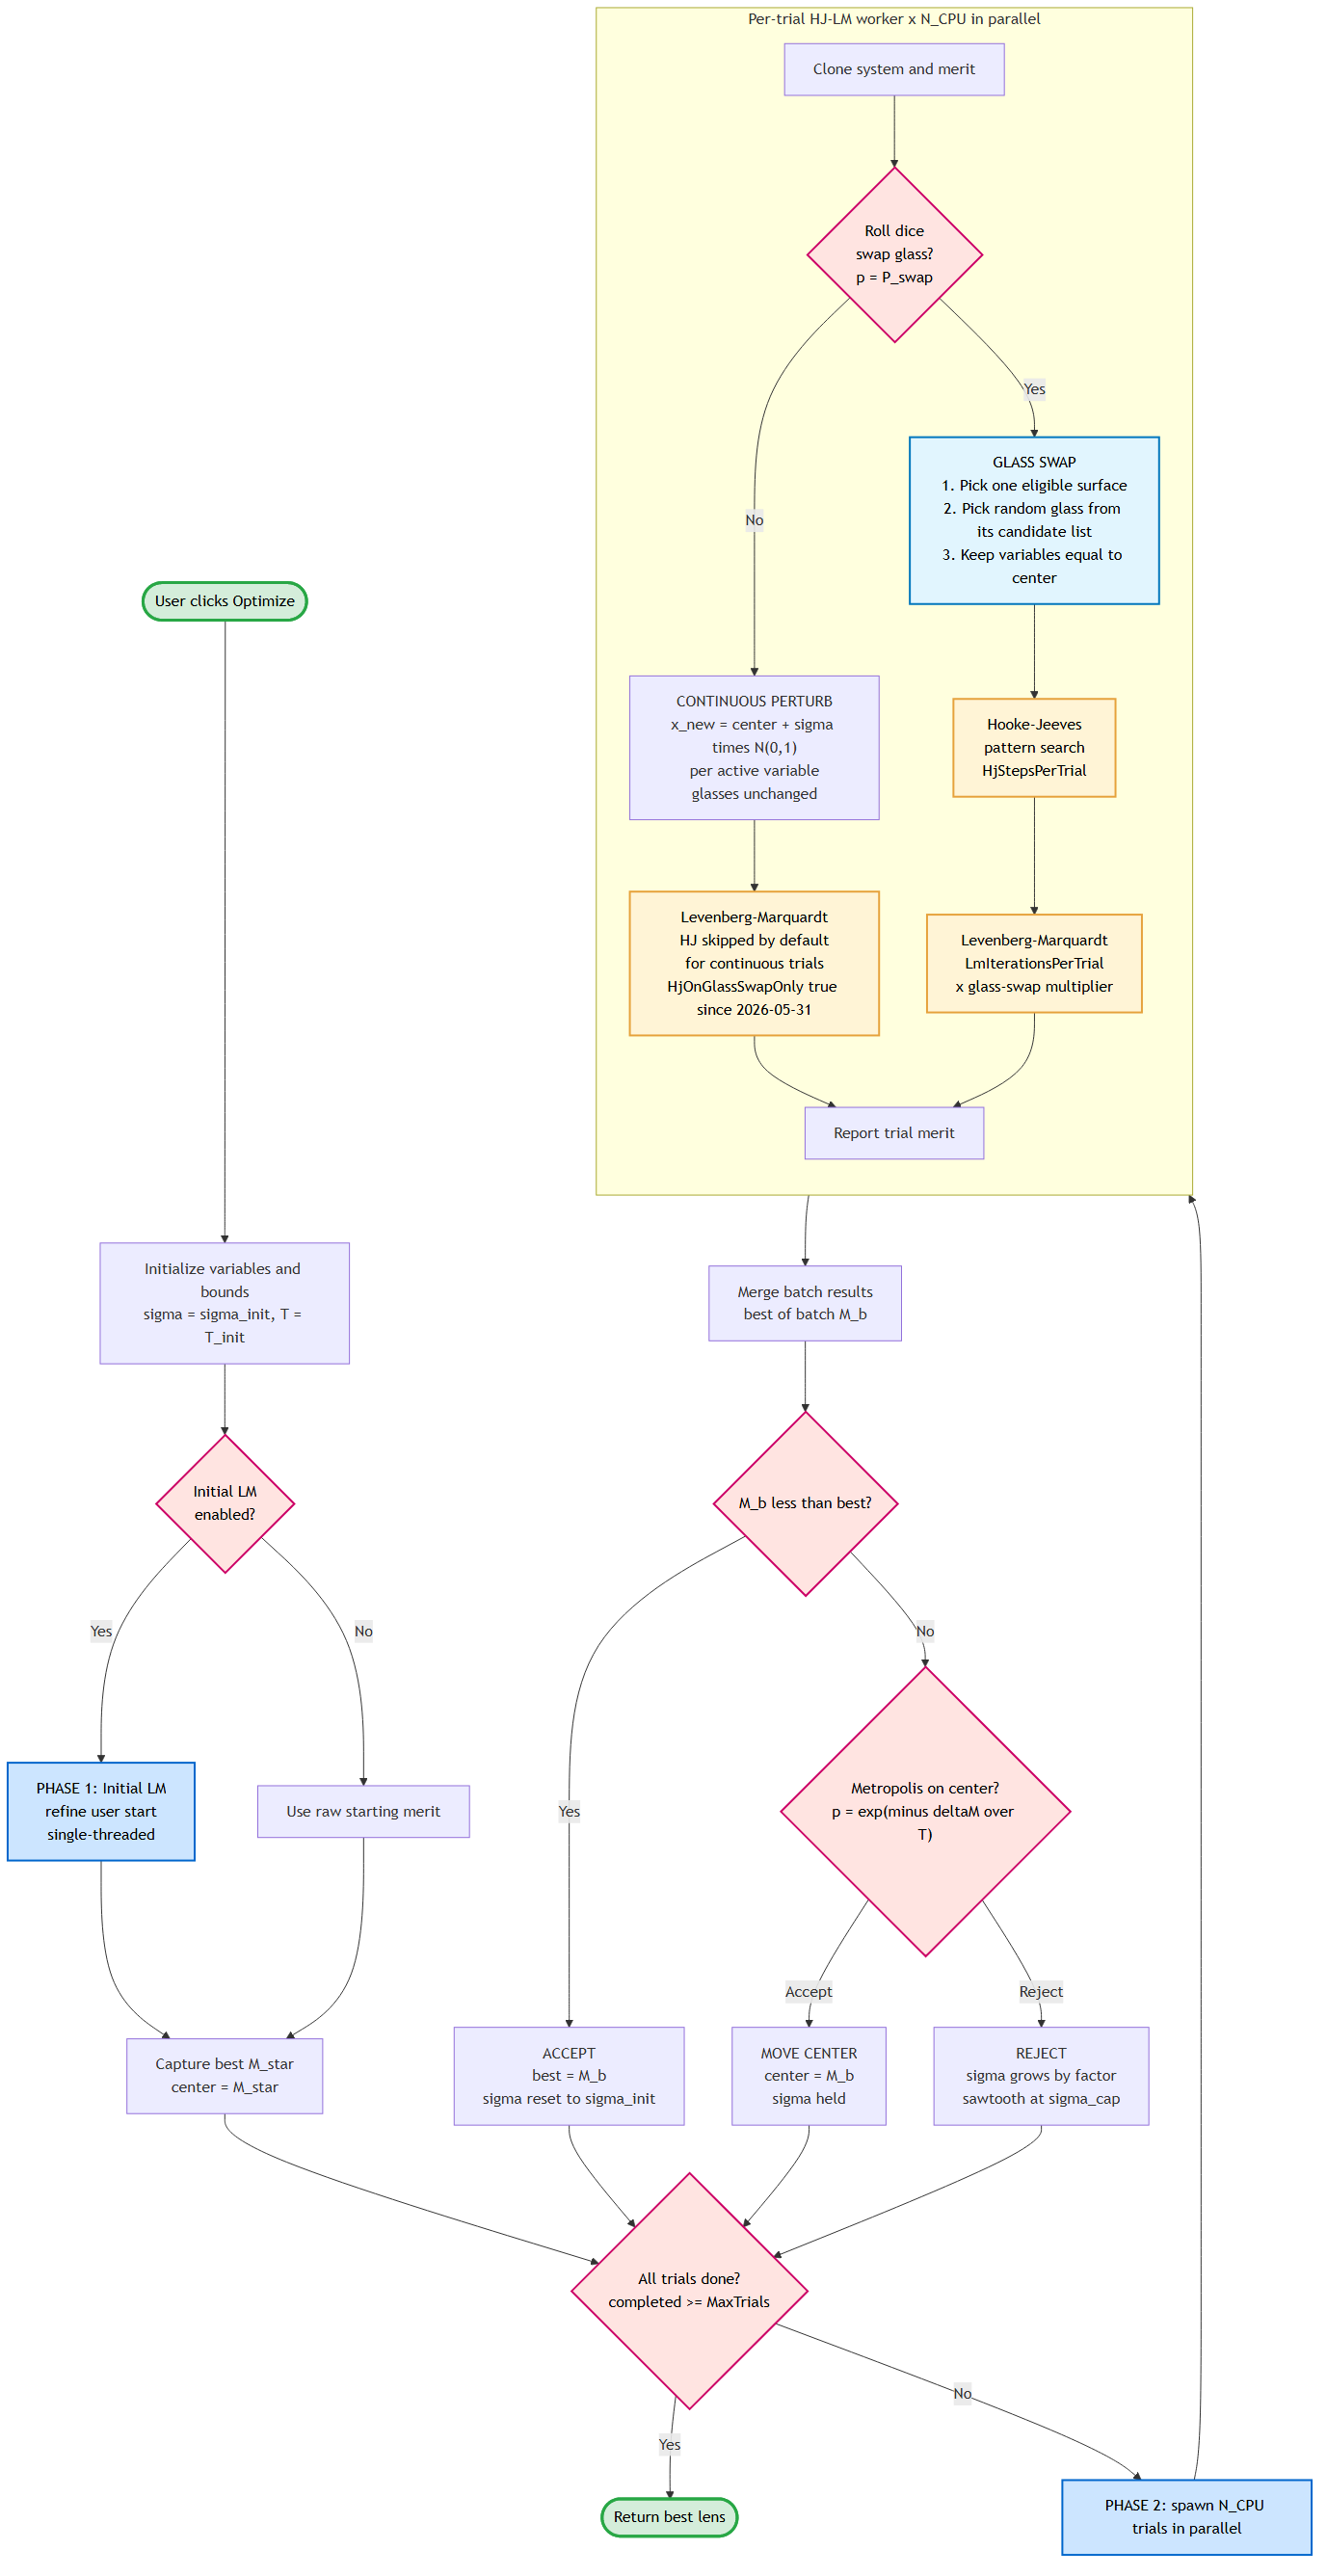
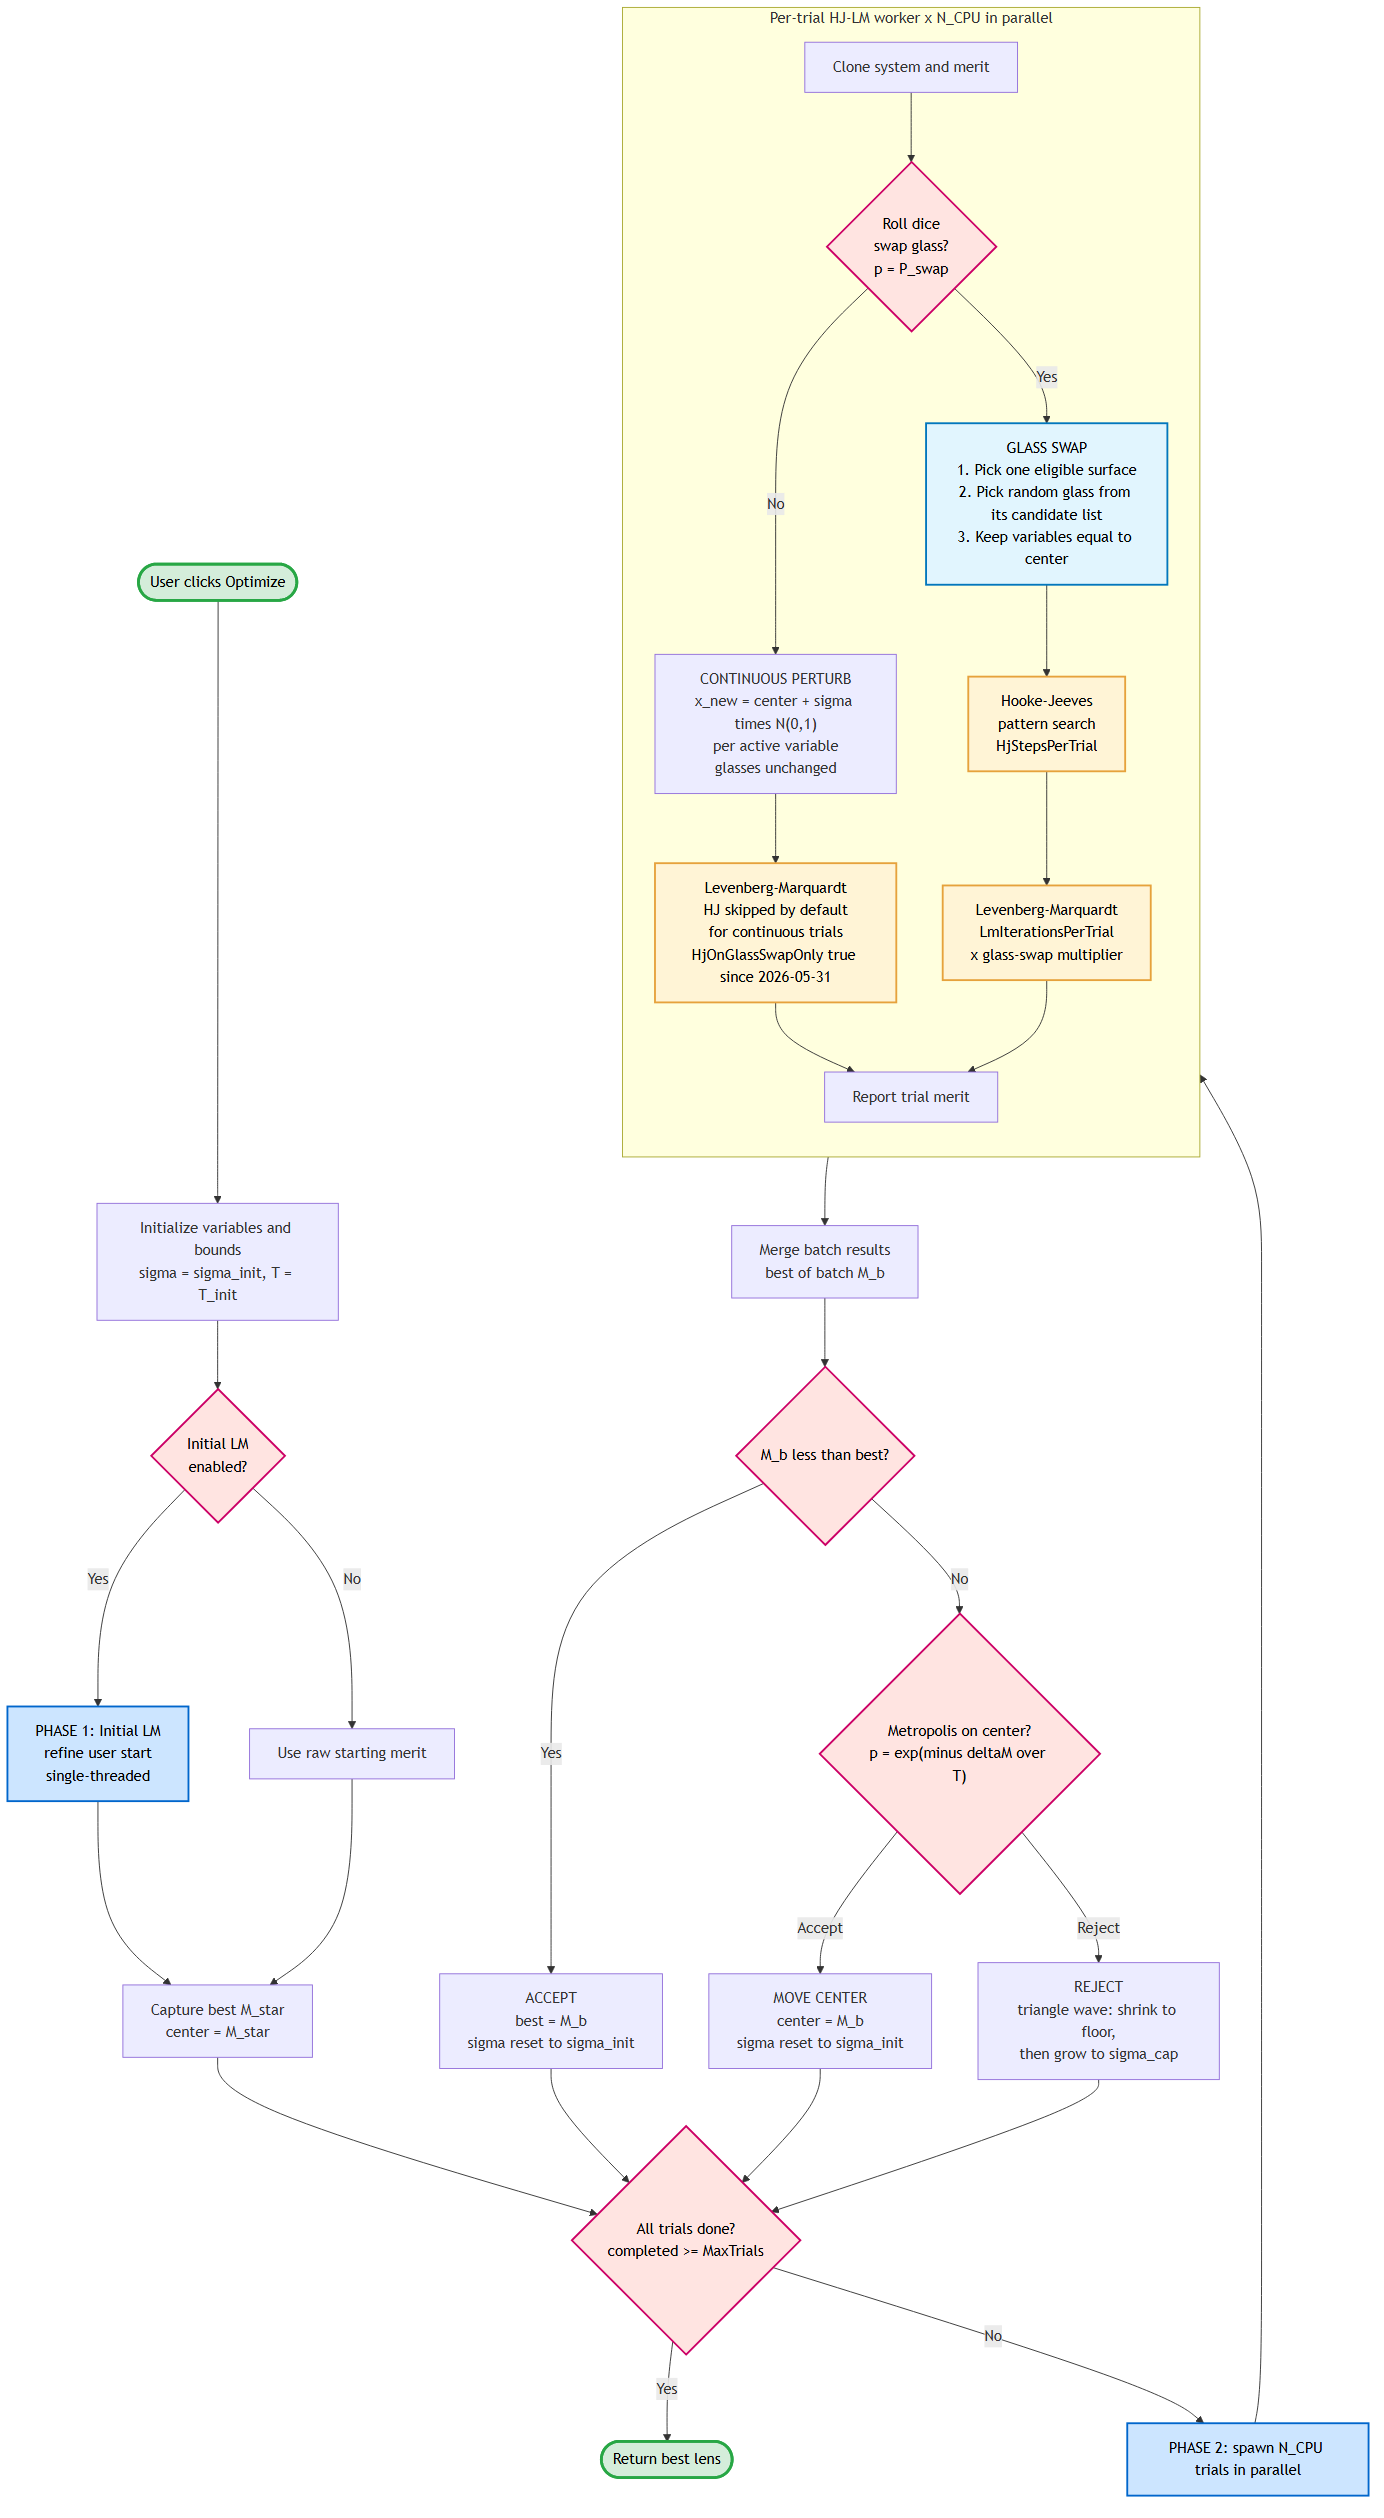
1.0.117: Multistart triangle-wave sigma, simplified GPU pre-screen UI, docs
- GUI: Multistart dialog drops the single-precision ("float") toggle and the
  separate GPU sigma-multiplier field; Init Sigma / Sigma Cap defaults are now
  0.0003 / 0.1 with triangle-wave tooltips. SplitElement + BasinHopping sigma
  tooltips refreshed.
- CLI / MCP: `optimize multistart`/`split` and `optimize_multistart` parameter
  defaults and help/descriptions updated to the triangle-wave schedule (MCP no
  longer pins the old 0.001/0.5 defaults; stale `rand=` CLI help fixed).
- docs: optimization.md rewritten for the triangle wave + corrected settings
  table; multistart flowchart (.mmd + regenerated PNG); CHANGELOG.
- Bundled binaries refreshed: obfuscated engine/LensHH.Core.dll and a fresh
  CPU-only engine/linux-x64/liblenshh_native.so. Installer pinned to 1.0.117.

macOS dylib and GPU slide artifacts intentionally left uncommitted.

diff --git a/src/LensHH.App/ViewModels/MultistartDialogViewModel.cs b/src/LensHH.App/ViewModels/MultistartDialogViewModel.cs
@@ -81,11 +81,11 @@ public partial class MultistartDialogViewModel : ObservableObject
     public bool InitialLmInputEnabled => !IsRunning && !SkipInitialLm;
 
     partial void OnIsRunningChanged(bool value) => OnPropertyChanged(nameof(InitialLmInputEnabled));
-    // 2026-06-06: default lowered 0.001 → 0.0001. 0.001 over-perturbed
-    // near-solution designs (search wandered rather than refined); the sawtooth
-    // still grows sigma on rejection to escape, so starting small is safe.
-    [ObservableProperty] private double _initialSigma = 0.0001;
-    [ObservableProperty] private double _sigmaCap = 0.5;
+    // Reset point of the triangle-wave perturbation: sigma returns here on every
+    // acceptance and starts here. Rejection shrinks sigma toward SigmaMin, then
+    // climbs toward SigmaCap to escape, oscillating until something is accepted.
+    [ObservableProperty] private double _initialSigma = 0.0003;
+    [ObservableProperty] private double _sigmaCap = 0.1;
     [ObservableProperty] private bool _enableMetropolis = true;
     // Default lowered from 50 → 10 on 2026-05-31. HJ pre-step now also
     // runs only on glass-swap trials (MultistartSettings.HjOnGlassSwapOnly
@@ -126,16 +126,6 @@ public partial class MultistartDialogViewModel : ObservableObject
     // integration arrives, this property already feeds MultistartSettings.
     // UseGpuPreScreen — no UI rewiring needed.
     [ObservableProperty] private bool _useGpuPreScreen;
-    // GPU pre-screen perturbation = this fraction of the CPU sigma. The
-    // pre-screen ranks by raw un-polished merit (only valid for small
-    // perturbations), so the GPU needs a tighter spread than the CPU. Lower =
-    // more aggressive. Default 0.25.
-    [ObservableProperty] private double _gpuPreScreenSigmaScale = 0.25;
-    // Run the GPU pre-screen in single precision. Validated ranking-equivalent,
-    // but default OFF: profiling showed the whole-merit kernel is local-memory/
-    // register bound (not FP64-bound), so float is currently ~10× slower. Kept
-    // wired for when the per-thread frame is shrunk. Route-C slice 5.
-    [ObservableProperty] private bool _gpuPreScreenUseFloat = false;
     [ObservableProperty] private string _gpuStatusText = "Detecting GPU...";
     [ObservableProperty] private bool _isGpuToggleEnabled;
 
@@ -322,8 +312,6 @@ public partial class MultistartDialogViewModel : ObservableObject
                     // MultistartOptimizer Phase-2 hook lands in 1.0.116, at
                     // which point this flag will start gating the GPU sieve.
                     UseGpuPreScreen = UseGpuPreScreen,
-                    GpuPreScreenSigmaScale = GpuPreScreenSigmaScale,
-                    GpuPreScreenUseFloat = GpuPreScreenUseFloat,
                 },
                 // Phase 10a — DEV engine selection from the dialog.
                 EngineMode = (EngineModeIndex == 1) ? EngineMode.Native : EngineMode.CSharp,

diff --git a/src/LensHH.CLI/Commands/OptimizeCommand.cs b/src/LensHH.CLI/Commands/OptimizeCommand.cs
@@ -17,9 +17,9 @@ namespace LensHH.CLI.Commands
         public string Help => @"[bold]optimize[/] - Optimization operations
   [green]optimize run [[maxiter=N]] [[tol=V]] [[damping=V]] [[broyden=true|false]] [[refresh=N]][/]  Run local optimization (auto-applies result to the system)
   [green]optimize try [[maxiter=N]] [[tol=V]] [[damping=V]] [[broyden=true|false]] [[refresh=N]][/]  Run local optimization and prompt to keep or revert
-  [green]optimize multistart [[trials=N]] [[lm=N]] [[initlm=N]] [[rand=V]] [[glass=V]] [[constrained]] [[tol=V]] [[damping=V]] [[broyden=true|false]] [[refresh=N]][/]  Multistart optimization
+  [green]optimize multistart [[trials=N]] [[lm=N]] [[initlm=N]] [[sigma=V]] [[cap=V]] [[growth=V]] [[glass=V]] [[constrained]] [[tol=V]] [[damping=V]] [[broyden=true|false]] [[refresh=N]][/]  Multistart optimization
   [green]optimize basin [[hops=N]] [[lm=N]] [[hj=N]] [[sigma=V]] [[hjstep=V]] [[hjmin=V]] [[tol=V]] [[damping=V]] [[broyden=true|false]] [[constrained]] [[glasssub=true|false]] [[onlypreferred=true|false]] [[catalog=NAME]] [[seed=N]][/]  Basin hopping (Hooke-Jeeves + LM with random kicks between hops)
-  [green]optimize split [[splits=N]] [[trials=N]] [[lm=N]] [[postlm=N]] [[preglass=N]] [[postglass=N]] [[rand=V]] [[constrained]] [[onlypreferred=true|false]] [[minglass=V]] [[maxglass=V]] [[minair=V]] [[maxair=V]] [[minedge=V]] [[skipsec=V]] [[tol=V]] [[damping=V]] [[broyden=true|false]] [[refresh=N]] [[catalog=NAME]] [[noglass]][/]  Split element synthesis. catalog: AGF name (e.g. catalog=S1_GLASS); resolved against catalogs\FilteredGlassCatalogues. noglass: skip the glass-trials phase entirely (split + LM polish only).
+  [green]optimize split [[splits=N]] [[trials=N]] [[lm=N]] [[postlm=N]] [[preglass=N]] [[postglass=N]] [[sigma=V]] [[constrained]] [[onlypreferred=true|false]] [[minglass=V]] [[maxglass=V]] [[minair=V]] [[maxair=V]] [[minedge=V]] [[skipsec=V]] [[tol=V]] [[damping=V]] [[broyden=true|false]] [[refresh=N]] [[catalog=NAME]] [[noglass]][/]  Split element synthesis. catalog: AGF name (e.g. catalog=S1_GLASS); resolved against catalogs\FilteredGlassCatalogues. noglass: skip the glass-trials phase entirely (split + LM polish only).
   [green]optimize spc [[elements=N]] [[topn=N]] [[scanmin=V]] [[scanmax=V]] [[steps=N]] [[epsilon=V]] [[glass=N]] [[lm=N]] [[postlm=N]] [[catalog=NAME]] [[archive=true|false]] [[archivedir=PATH]] [[dop=N]] [[nullglass=NAME]] [[runinitlm=true|false]] [[initlm=N]] [[onlypreferred=true|false]] [[minglass=V]] [[maxglass=V]] [[minair=V]] [[maxair=V]] [[minedge=V]] [[constraintweight=V]][/]  Synthesis by SPC. catalog is mandatory (single AGF name or comma-separated list).
   [green]optimize cancel[/]                                     Cancel running optimization
   [green]optimize variables[/]                                  List current variables";
@@ -206,7 +206,7 @@ namespace LensHH.CLI.Commands
 
             var settings = new MultistartSettings();
 
-            // Parse args: trials=N, lm=N, initlm=N, rand=V, glass=V, constrained
+            // Parse args: trials=N, lm=N, initlm=N, sigma=V, cap=V, growth=V, glass=V, constrained
             for (int i = 1; i < args.Length; i++)
             {
                 var parts = args[i].Split('=');
@@ -267,7 +267,7 @@ namespace LensHH.CLI.Commands
 
             AnsiConsole.MarkupLine($"[bold]Starting multistart optimization[/]");
             AnsiConsole.MarkupLine($"  Trials: {settings.MaxTrials}, LM/trial: {settings.LmIterationsPerTrial}");
-            AnsiConsole.MarkupLine($"  Sigma: {settings.InitialSigma:G3} → cap {settings.SigmaCap:G3} (×{settings.SigmaGrowth:G3}), Metropolis: {(settings.EnableMetropolis ? "on" : "off")}");
+            AnsiConsole.MarkupLine($"  Sigma: start {settings.InitialSigma:G3}, triangle floor {settings.SigmaMin:G3} ↔ cap {settings.SigmaCap:G3} (×{settings.SigmaGrowth:G3}), Metropolis: {(settings.EnableMetropolis ? "on" : "off")}");
             AnsiConsole.MarkupLine($"  HJ steps/trial: {settings.HjStepsPerTrial}, Glass-swap LM ×{settings.GlassSwapLmMultiplier}, Glass sub: {settings.GlassSubstitutionProbability * 100:F0}%");
             AnsiConsole.MarkupLine("");
 

diff --git a/src/LensHH.Mcp/Tools/OptimizationTools.cs b/src/LensHH.Mcp/Tools/OptimizationTools.cs
@@ -407,9 +407,9 @@ namespace LensHH.Mcp.Tools
             return "All variables cleared.";
         }
 
-        [McpServerTool, Description("Run adaptive multistart optimization. Each trial perturbs from the running center, runs Hooke-Jeeves pre-step (robust to merit-function discontinuities), then short LM. Sigma sawtooth: starts at initialSigma, grows on rejection, snaps back to initialSigma when it crosses sigmaCap. Metropolis acceptance keeps a 'currentCenter' that may accept worse-than-best moves with probability exp(-dM/T) so the optimizer can walk out of local basins. Glass-swap trials get LmPerTrial × glassSwapLmMultiplier iterations to recover from the index discontinuity. Parameters: maxTrials (default 2000), lmPerTrial (default 50), initialLm (default 200), initialSigma (default 0.001), sigmaGrowth (default 1.5), sigmaCap (default 0.5), enableMetropolis (default true), metropolisTemperature (default 0 = autotune from first 10 |dM| samples), hjStepsPerTrial (default 50, 0=disable), hjInitialStep (default 0.1), glassSwapLmMultiplier (default 4), glassSubPercent (default 50), constrainedOnly (default false). Per-LocalOptimizer tunables: tolerance (default 1e-10), dampingFactor (default 1e-6), useBroyden (default true), broydenRefreshInterval (default 5). Result is auto-applied to the system.")]
+        [McpServerTool, Description("Run adaptive multistart optimization. Each trial perturbs from the running center, runs Hooke-Jeeves pre-step (robust to merit-function discontinuities), then short LM. Sigma triangle wave: starts at initialSigma and resets there on any accepted move; on rejection it first SHRINKS (÷sigmaGrowth, finer local steps) down to an internal floor, then GROWS (×sigmaGrowth) up to sigmaCap to escape a stuck basin, bouncing between floor and cap. Metropolis acceptance keeps a 'currentCenter' that may accept worse-than-best moves with probability exp(-dM/T) so the optimizer can walk out of local basins. Glass-swap trials get LmPerTrial × glassSwapLmMultiplier iterations to recover from the index discontinuity. Parameters: maxTrials (default 2000), lmPerTrial (default 50), initialLm (default 200), initialSigma (default 0.0003), sigmaGrowth (default 1.5), sigmaCap (default 0.1), enableMetropolis (default true), metropolisTemperature (default 0 = autotune from first 10 |dM| samples), hjStepsPerTrial (default 50, 0=disable), hjInitialStep (default 0.1), glassSwapLmMultiplier (default 4), glassSubPercent (default 50), constrainedOnly (default false). Per-LocalOptimizer tunables: tolerance (default 1e-10), dampingFactor (default 1e-6), useBroyden (default true), broydenRefreshInterval (default 5). Result is auto-applied to the system.")]
         public string MultistartOptimize(int maxTrials = 2000, int lmPerTrial = 50, int initialLm = 200,
-            double initialSigma = 0.001, double sigmaGrowth = 1.5, double sigmaCap = 0.5,
+            double initialSigma = 0.0003, double sigmaGrowth = 1.5, double sigmaCap = 0.1,
             bool enableMetropolis = true, double metropolisTemperature = 0.0,
             int hjStepsPerTrial = 50, double hjInitialStep = 0.1, int glassSwapLmMultiplier = 4,
             double glassSubPercent = 50, bool constrainedOnly = false,
@@ -730,9 +730,9 @@ namespace LensHH.Mcp.Tools
             "After calling this, poll optimize_status(jobId) every ~10-30 seconds to track progress (current trial, best merit, elapsed time) and report to the user. " +
             "Call optimize_cancel(jobId) to stop early. " +
             "When the job's status is Completed, the system already holds the optimized values (auto-applied) — there is no separate keep step. " +
-            "Parameters mirror optimize_multistart: maxTrials (2000), lmPerTrial (50), initialLm (200), initialSigma (0.001), sigmaGrowth (1.5), sigmaCap (0.5), enableMetropolis (true), metropolisTemperature (0 = autotune), hjStepsPerTrial (50), hjInitialStep (0.1), glassSwapLmMultiplier (4), glassSubPercent (50), constrainedOnly (false), tolerance (1e-10), dampingFactor (1e-6), useBroyden (true), broydenRefreshInterval (5).")]
+            "Parameters mirror optimize_multistart: maxTrials (2000), lmPerTrial (50), initialLm (200), initialSigma (0.0003), sigmaGrowth (1.5), sigmaCap (0.1), enableMetropolis (true), metropolisTemperature (0 = autotune), hjStepsPerTrial (50), hjInitialStep (0.1), glassSwapLmMultiplier (4), glassSubPercent (50), constrainedOnly (false), tolerance (1e-10), dampingFactor (1e-6), useBroyden (true), broydenRefreshInterval (5).")]
         public string MultistartOptimizeStart(int maxTrials = 2000, int lmPerTrial = 50, int initialLm = 200,
-            double initialSigma = 0.001, double sigmaGrowth = 1.5, double sigmaCap = 0.5,
+            double initialSigma = 0.0003, double sigmaGrowth = 1.5, double sigmaCap = 0.1,
             bool enableMetropolis = true, double metropolisTemperature = 0.0,
             int hjStepsPerTrial = 50, double hjInitialStep = 0.1, int glassSwapLmMultiplier = 4,
             double glassSubPercent = 50, bool constrainedOnly = false,

diff --git a/docs/optimization.md b/docs/optimization.md
@@ -179,9 +179,10 @@ keeps the best, and tracks accepted vs rejected counts. Glass
 substitution can be enabled — every trial may swap glasses on
 substitution-eligible surfaces with a chosen probability. The
 per-trial perturbation magnitude (`Sigma`) adapts during the run
-the same way Basin Hopping does (grow on rejects, reset on
-accepts, reset at cap), so a single starting Sigma covers a wide
-range of designs.
+on a *triangle-wave* schedule — it shrinks for finer steps after a
+rejection and only grows toward the cap to escape once it bottoms
+out, resetting to its initial value on every acceptance — so a
+single starting Sigma covers a wide range of designs.
 
 ### Algorithm at a glance
 
@@ -192,9 +193,10 @@ batch spawns `N_CPU` parallel trials, every trial perturbs around
 the **current center** (a Metropolis random walk that is allowed
 to drift away from *best*), runs HJ-LM polish, then competes for
 acceptance. Successful trials reset σ to its initial value;
-rejected ones grow σ until it hits the cap and resets — a
-sawtooth schedule that paces exploration without freezing the
-search at a single scale.
+rejected ones first *shrink* σ for finer local refinement and,
+once σ bottoms out at its floor, grow it toward the cap to escape
+— a triangle-wave schedule that paces exploration without freezing
+the search at a single scale.
 
 ![Multistart architecture](images/optimization/multistart_architecture.png)
 
@@ -216,8 +218,8 @@ pre-1.0.115 always-HJ behaviour.
 | **Trials** | 2000 | Hard cap on the number of LM optimizations. Stop earlier when satisfied. |
 | **LM/Trial** | 4000 | Hard cap on LM iterations *inside* each trial. Per-trial wall-clock × Trials = total runtime budget. |
 | **Init LM** | 4000 | One LM polish from the *current* design before the first random perturbation. Set to 0 to skip. |
-| **Init Sigma** | 0.001 | Starting value of the Gaussian-perturbation scale (relative to each variable's natural scale). Sigma adapts during the run; 0.001 is sufficient even for very poor starts. |
-| **Sigma Cap** | 0.5 | Upper bound on the adapted sigma. When sigma's reject-driven growth would exceed this, sigma resets to **Init Sigma** instead of being parked at the cap — the same sawtooth pattern Basin Hopping uses. |
+| **Init Sigma** | 0.0003 | Starting value of the Gaussian-perturbation scale (relative to each variable's natural scale), and the value σ resets to on every accepted improvement. Sigma adapts during the run; 0.0003 is sufficient even for very poor starts. |
+| **Sigma Cap** | 0.1 | Upper bound of the triangle wave — the largest kick the escape phase reaches. After repeated rejections shrink σ to its floor, σ grows back up to this cap, then reverses and falls again; any acceptance resets σ to **Init Sigma**. (Basin Hopping uses a different, simpler grow-on-reject schedule.) |
 | **HJ Steps** | 50 | Hooke-Jeeves probe steps per trial (derivative-free) before LM takes over. HJ is good at climbing out of merit-function discontinuities (vignetting, ray-trace failures, glass-boundary jumps) where LM gets trapped. Set 0 to disable. |
 | **Init Damp** | 1e-3 | LM initial damping for every trial's per-trial LM run. Same meaning and default as the Local Optimizer's Init Damp. |
 | **Glass Sub %** | 50 | Probability that a trial picks a fresh random glass for each substitution-eligible surface. 0 = never; 100 = every trial. The pool comes from the per-surface Glass Substitution Settings (each surface can draw from a different filtered catalog) — see [Glass Substitution During Optimization](glass-catalogs.md#glass-substitution-during-optimization). |
@@ -227,7 +229,7 @@ pre-1.0.115 always-HJ behaviour.
 
 Multistart's strength is variability — it's the cheapest way to
 sample several glass sets and several nearby basins with only modest
-perturbations. With **Init Sigma = 0.001** it isn't designed to
+perturbations. With **Init Sigma = 0.0003** it isn't designed to
 flip a topology (a positive-power element won't become a
 negative-power element); for that, raise Sigma toward the cap, or
 use Basin Hopping.
@@ -364,7 +366,13 @@ Same starting state as Case 2 but with substitution enabled on
 S1 / S3 / S5 from CoreSet28. The story splits cleanly on
 **Init Sigma**.
 
-**At default Init Sigma = 0.001**: the design did not budge. Every
+(This study was run under the previous defaults, when **Init Sigma**
+defaulted to `0.001` and the schedule grew σ on every rejection; the
+current defaults are `0.0003` with the triangle-wave schedule. The
+qualitative lesson below — small kicks refine, larger kicks escape —
+is unchanged.)
+
+**At Init Sigma = 0.001**: the design did not budge. Every
 glass-swap trial that LM tried produced a worse-than-best post-LM
 merit and got rejected; without an LM-driven perturbation big
 enough to compensate for the index change, the design stayed
@@ -390,9 +398,9 @@ further improvement.
 
 The takeaway from Cases 2 and 3 is concrete: once a design is at
 the bottom of its basin, the *floor* of the kick distribution is
-the only knob that matters for escape. Default Sigma 0.001 is
-tuned for refining around a known-good point, not jumping
-basins; raising Init Sigma by one decade (0.01) was enough to
+the only knob that matters for escape. A small Sigma (the default
+is 0.0003) is tuned for refining around a known-good point, not
+jumping basins; raising Init Sigma toward the cap was enough to
 unlock this design *and* give glass substitution room to
 contribute. If 0.01 still locks, raise further (0.05–0.1) before
 deciding the design is converged for the chosen topology.
@@ -685,7 +693,7 @@ so a stuck phase doesn't block the run.
 | **Pre-Glass MS** | 4000 | Multistart trials before glass swaps. |
 | **Post-Glass MS** | 2500 | Multistart trials after the best glass pair is locked in. |
 | **Post LM** | 4000 | Final LM iteration cap after both Multistart phases. |
-| **MS Sigma** | 0.001 | Init Sigma for both Multistart phases. Same sawtooth-on-cap behavior as the standalone Multistart. |
+| **MS Sigma** | 0.001 | Init Sigma for both Multistart phases — the same triangle-wave schedule as the standalone Multistart. |
 | **Min Glass / Max Glass** | 1 / 25 mm | Centre-thickness bounds enforced on the split's glass halves. |
 | **Min Air / Max Air** | 0.1 / 25 mm | Bounds on the new air gap between the split halves. |
 | **Min Edge** | 0.5 mm | Minimum edge thickness on the split element. |

diff --git a/CHANGELOG.md b/CHANGELOG.md
@@ -2,7 +2,24 @@
 
 All notable changes to LensHH-LT and the LensHH-LT-Engine.
 
-## 1.0.117 — 2026-06-05
+## 1.0.117 — 2026-06-06
+
+### Optimization
+- **New perturbation schedule for Multistart optimization.** Sigma now follows a
+  triangle wave: it starts at the initial value and returns there on every
+  accepted improvement; on rejection it first *shrinks* for finer local
+  refinement, and only after bottoming out does it grow back up to the cap to
+  escape a stuck basin, then bounces back down. This replaces the previous
+  grow-on-every-rejection sawtooth, which tended to wander away from
+  near-solution designs instead of refining them. New defaults: initial sigma
+  0.0003, cap 0.1 (was 0.0001 / 0.5). Basin Hopping is unchanged. The CLI
+  (`optimize multistart`/`split`) and MCP (`optimize_multistart`) parameter
+  defaults and help text were updated to match the new schedule.
+- **Simplified the GPU pre-screen controls.** Removed the single-precision
+  ("float") pre-screen toggle and the separate GPU sigma multiplier from the
+  Multistart dialog — the pre-screen always runs in full double precision at the
+  same perturbation radius as the CPU path. Behavior is unchanged from the
+  recommended defaults; the two extra knobs are simply gone.
 
 ### Added
 - **MeritEvalBench** — a merit-function timing tool (whole-merit value, residuals